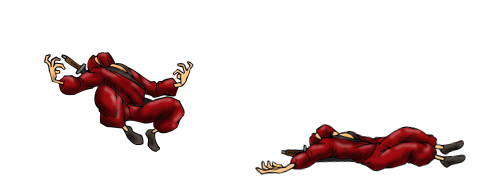
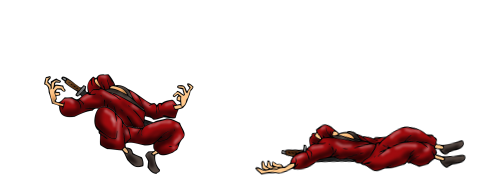
haciendo que el enemigo rebote cuando cae.

Changed region(s): [[0.0926, 0.2747, 0.4012, 0.9615]]

diff --git a/sbfury/enemigos/estados.py b/sbfury/enemigos/estados.py
@@ -79,21 +79,36 @@ class LoGolpeanFuerte(LoGolpean):
     def iniciar(self, enemigo):
         LoGolpean.iniciar(self, enemigo)
         self.enemigo.cambiar_animacion('lo_golpean_fuerte')
-        self.velocidad_inicial = 14
+        self.velocidad_general = 14
+        self.velocidad_inicial = self.velocidad_general
+
+        if self.enemigo.espejado:
+
+            self.velocidad_horizontal = 1.5
+        else:
+            self.velocidad_horizontal = -1.5
 
     def actualizar(self):
         self.enemigo.altura_del_salto += self.velocidad_inicial
         self.velocidad_inicial -= 0.75
 
-        self.enemigo.definir_cuadro(0)
+        if self.enemigo.altura_del_salto < 30:
+            # Si está cerca del suelo se muestra acostado.
+            self.enemigo.definir_cuadro(1)
+        else:
+            self.enemigo.definir_cuadro(0)
 
         if self.enemigo.altura_del_salto < 0:
-            self.terminar_caida()
+            # Si toca el suelo rebota con menos intensidad.
+            self.velocidad_horizontal /= 1.5
+            self.velocidad_general -= 4
+            self.velocidad_inicial = self.velocidad_general
+            self.altura_del_salto = 0
 
-        if self.enemigo.espejado:
-            self.enemigo.mover(1.5, 0)
-        else:
-            self.enemigo.mover(-1.5, 0)
+            if self.velocidad_general < 0:
+                self.terminar_caida()
+
+        self.enemigo.mover(self.velocidad_horizontal, 0)
 
     def terminar_caida(self):
         self.enemigo.hacer(QuedarseEnElSuelo())
